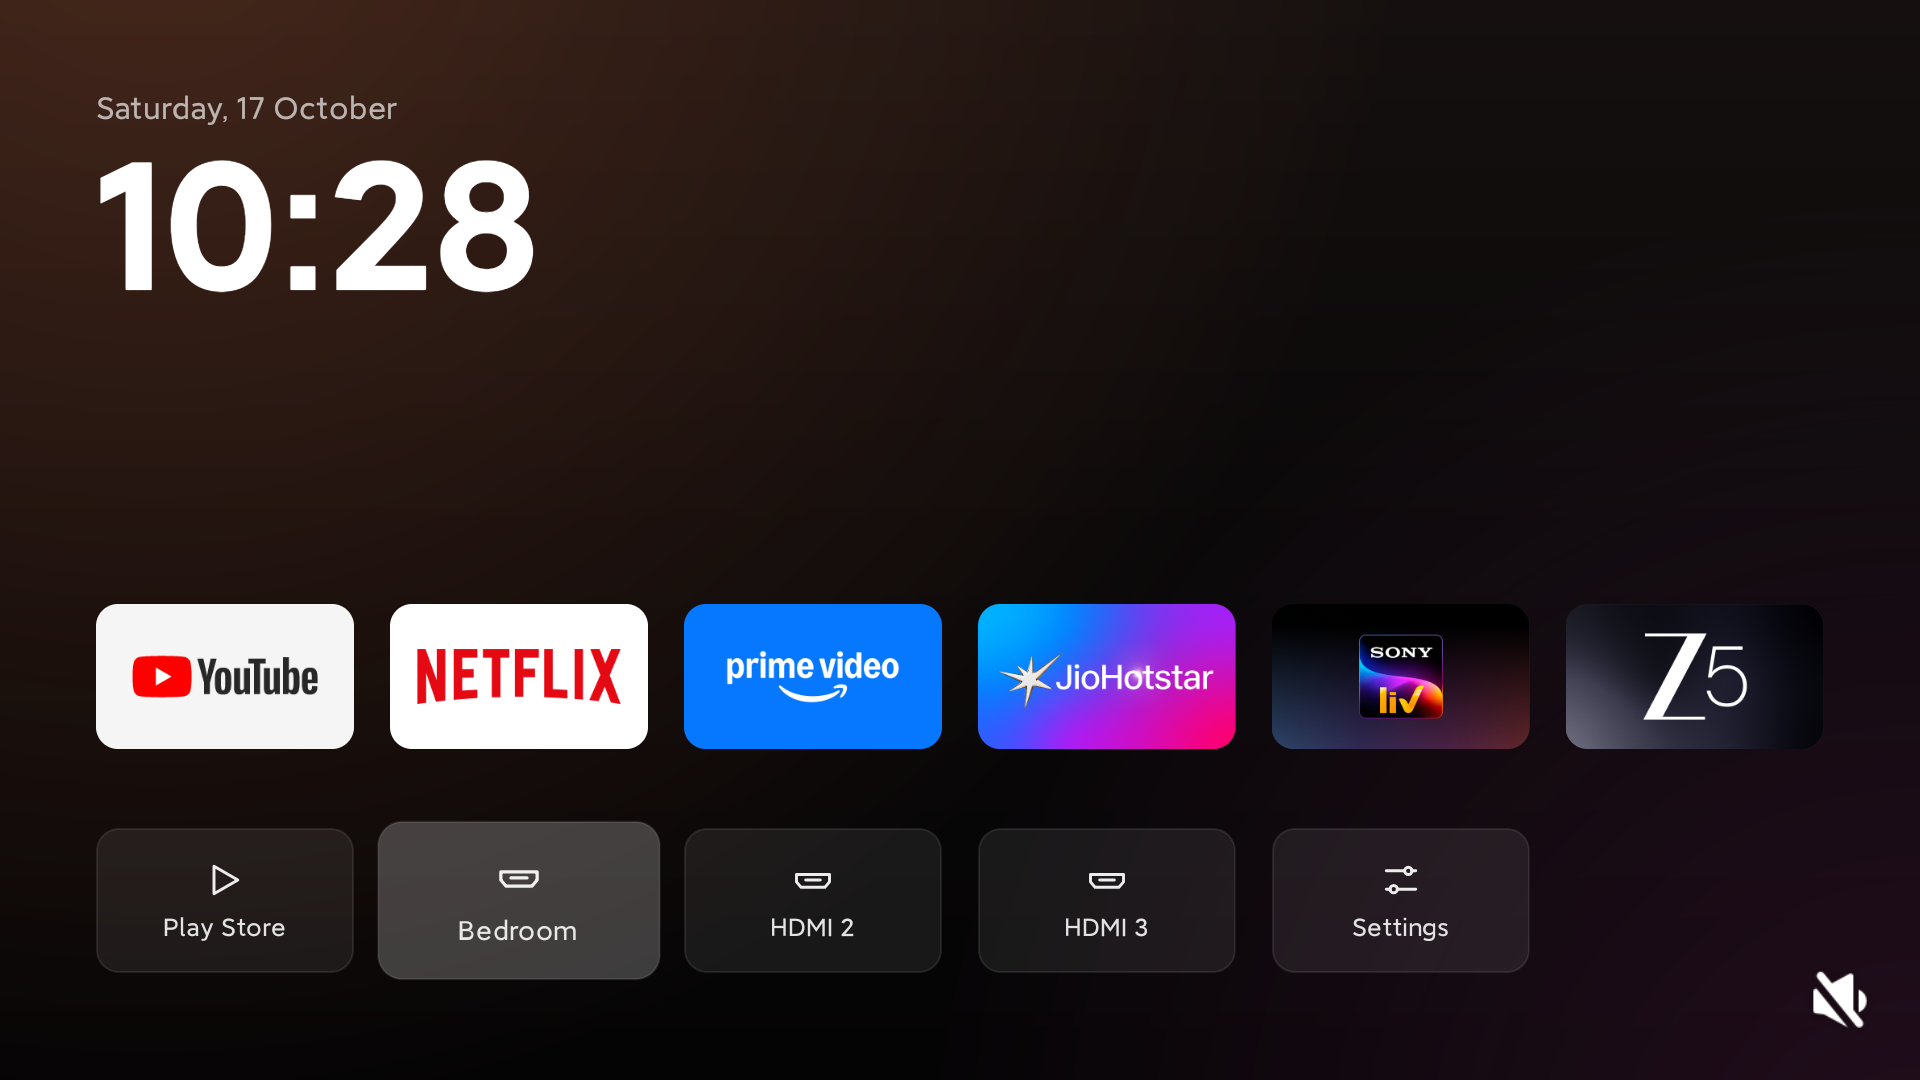
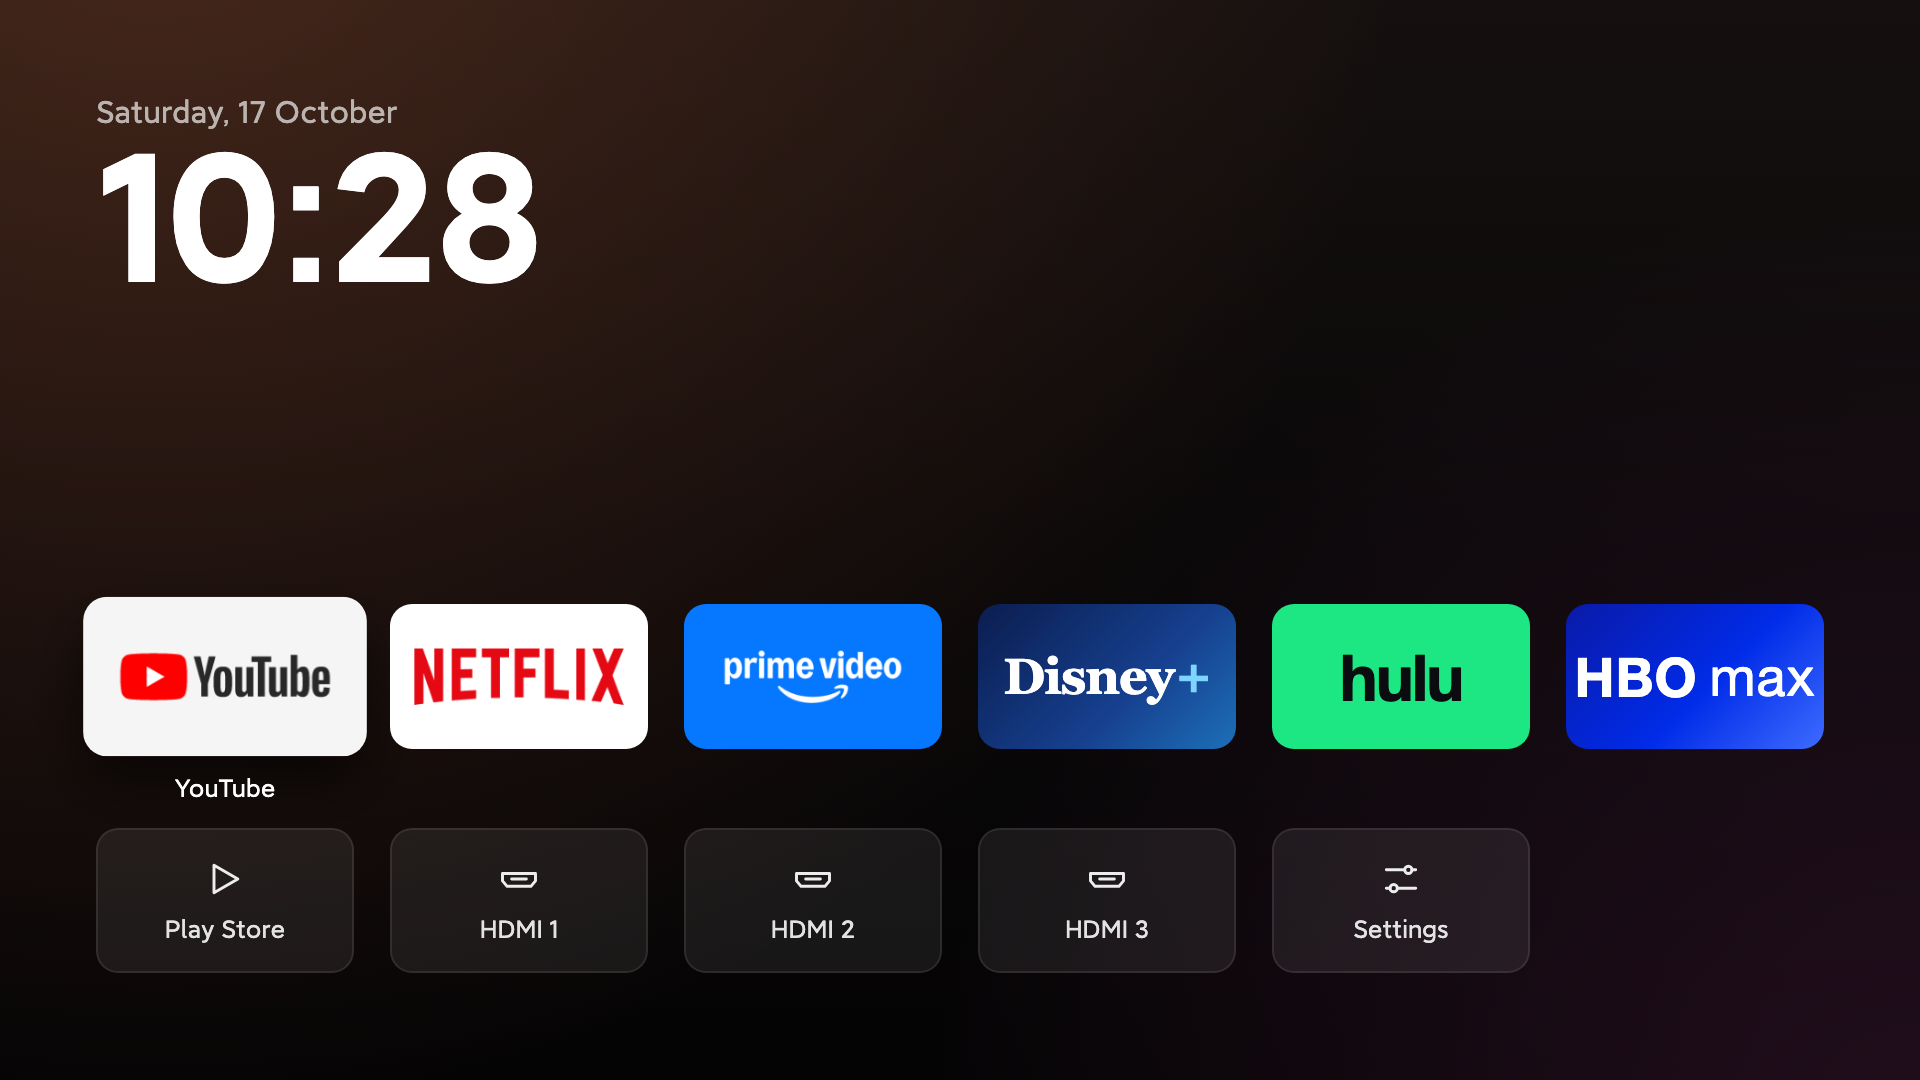
Show US streaming apps in the README screenshot

diff --git a/README.md b/README.md
@@ -4,6 +4,8 @@ A tiny, ad-free home screen for old Android TVs, plus the Claude Code prompt I u
 
 ![The home screen](docs/home-screen.png)
 
+*Example layout with US streaming apps. Your own apps and HDMI names show up on your TV.*
+
 My parents have an old Android TV with 2 GB of RAM. It was slow, and the home screen was full of sponsored rows you couldn't turn off.
 
 So I had Claude Code fix it from my laptop, over Wi-Fi. It turned off the bloatware and the tracking, uninstalled 11 apps nobody used, and built this home screen from scratch:
